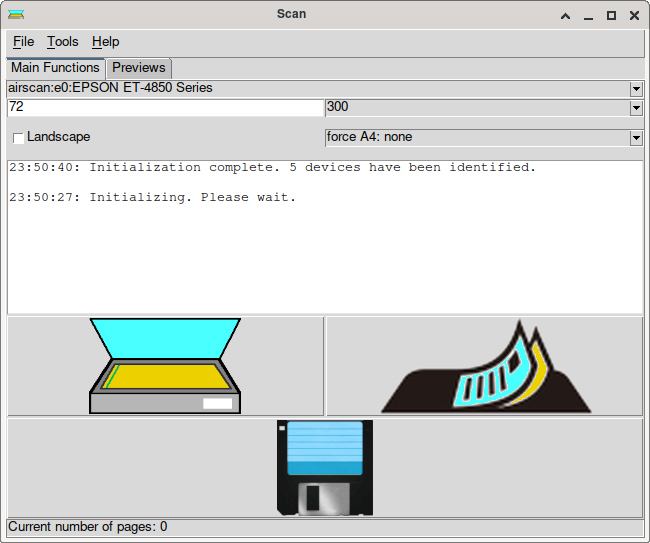
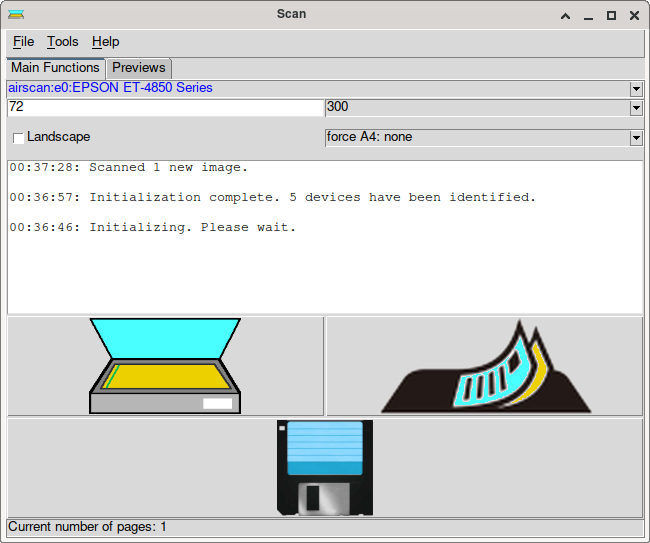
feat(ui): Painted device selection combobox text blue.

diff --git a/src/scan_ui.py b/src/scan_ui.py
@@ -759,7 +759,8 @@ April 2025, Markus-H. Koch ( https://github.com/kochsoft/scan )
         # https://www.pythontutorial.net/tkinter/tkinter-combobox/
         # [Note: The var for the combobox needs to be a persistent variable.]
         self.var_combo_device = tk.StringVar()
-        self.combo_device = ttk.Combobox(self.tab1, textvariable=self.var_combo_device) #, width=self.width_column)
+        self.combo_device = ttk.Combobox(self.tab1, textvariable=self.var_combo_device)
+        self.combo_device.config(foreground='blue')  # gold: '#fffaa0'
         self.combo_device.grid(row=0,column=0, columnspan=2, sticky='ew')
         self.combo_device['values'] = '<empty>',
         self.combo_device['state'] = 'readonly'
